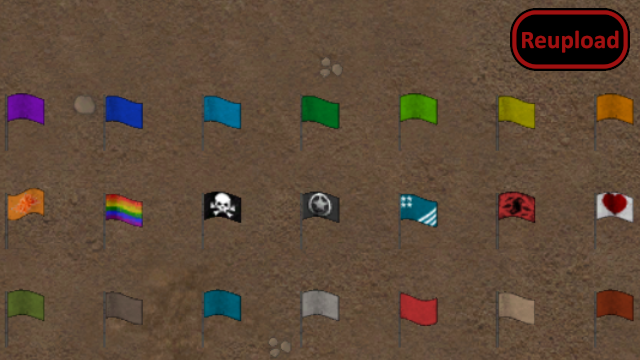
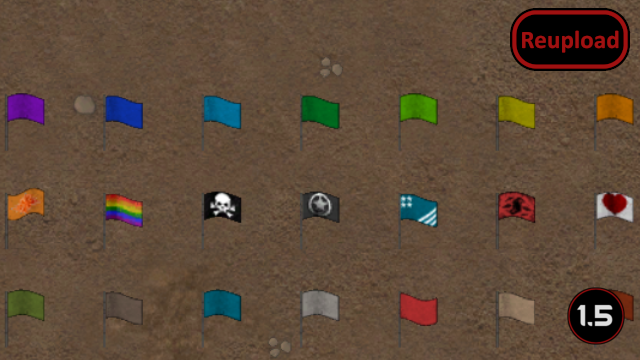
Mod updated for 1.5 and passed autotests

Changed region(s): [[0.875, 0.7944, 1.0, 0.9778]]

diff --git a/Source/CuproFlags/Building_Flag.cs b/Source/CuproFlags/Building_Flag.cs
@@ -94,9 +94,9 @@ public class Building_Flag : Building
     }
 
 
-    public override void Draw()
+    protected override void DrawAt(Vector3 drawLoc, bool flip = false)
     {
-        base.Draw();
+        base.DrawAt(drawLoc, flip);
         if (currFrame == null)
         {
             return;
@@ -105,7 +105,7 @@ public class Building_Flag : Building
         var matrix = default(Matrix4x4);
         var s = new Vector3(def.graphicData.drawSize.x, 9f, def.graphicData.drawSize.y);
         var x = new Vector3(0f, 0f, 0f);
-        matrix.SetTRS(DrawPos + x + Altitudes.AltIncVect, Rotation.AsQuat, s);
+        matrix.SetTRS(drawLoc + x + Altitudes.AltIncVect, Rotation.AsQuat, s);
         Graphics.DrawMesh(MeshPool.plane10, matrix,
             currFrame.GetColoredVersion(def.graphicData.shaderType.Shader, Color, Color.white).MatSingle, 0);
     }

diff --git a/README.md b/README.md
@@ -46,11 +46,13 @@ No known issues yet, please report any issues
 
 -  See if the the error persists if you just have this mod and its requirements active.
 -  If not, try adding your other mods until it happens again.
--  Post your error-log using https://steamcommunity.com/workshop/filedetails/?id=818773962]HugsLib and command Ctrl+F12
+-  Post your error-log using https://steamcommunity.com/workshop/filedetails/?id=818773962]HugsLib or the standalone https://steamcommunity.com/sharedfiles/filedetails/?id=2873415404]Uploader and command Ctrl+F12
 -  For best support, please use the Discord-channel for error-reporting.
 -  Do not report errors by making a discussion-thread, I get no notification of that.
 -  If you have the solution for a problem, please post it to the GitHub repository.
+-  Use https://github.com/RimSort/RimSort/releases/latest]RimSort to sort your mods
 
 
 
+https://steamcommunity.com/sharedfiles/filedetails/changelog/2051089242]![Image](https://img.shields.io/github/v/release/emipa606/Flags?label=latest%20version&style=plastic&color=9f1111&labelColor=black)
 
